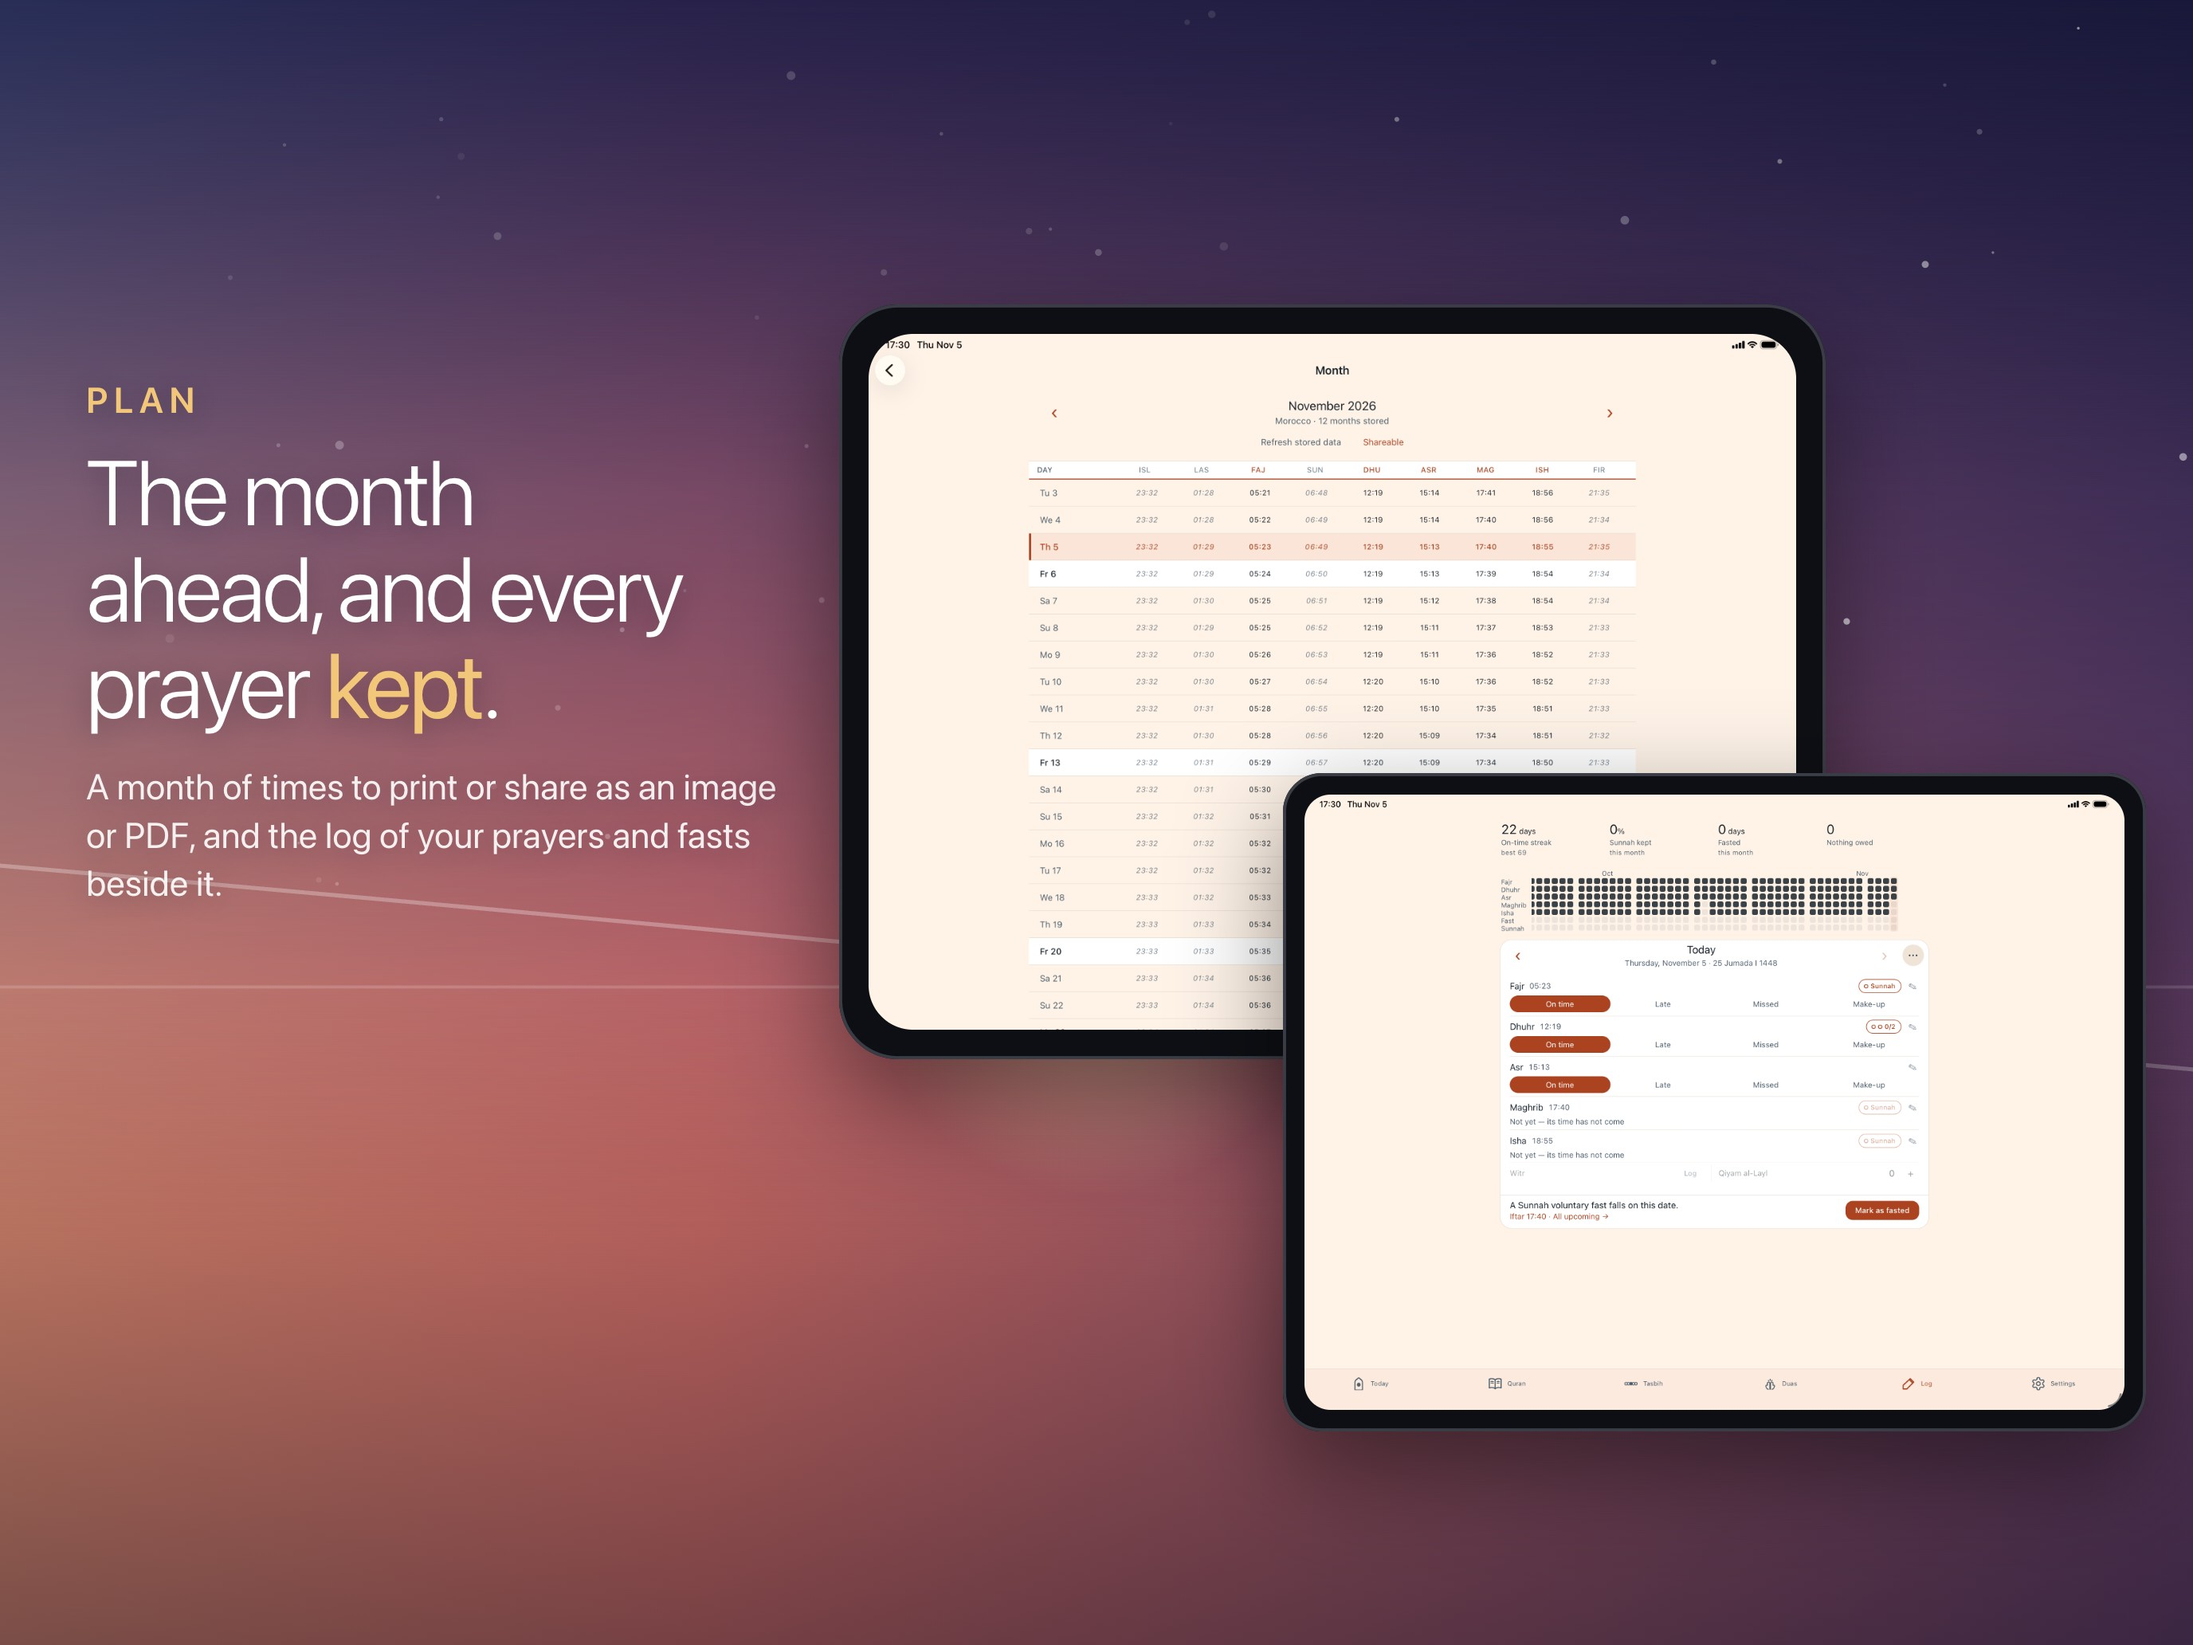
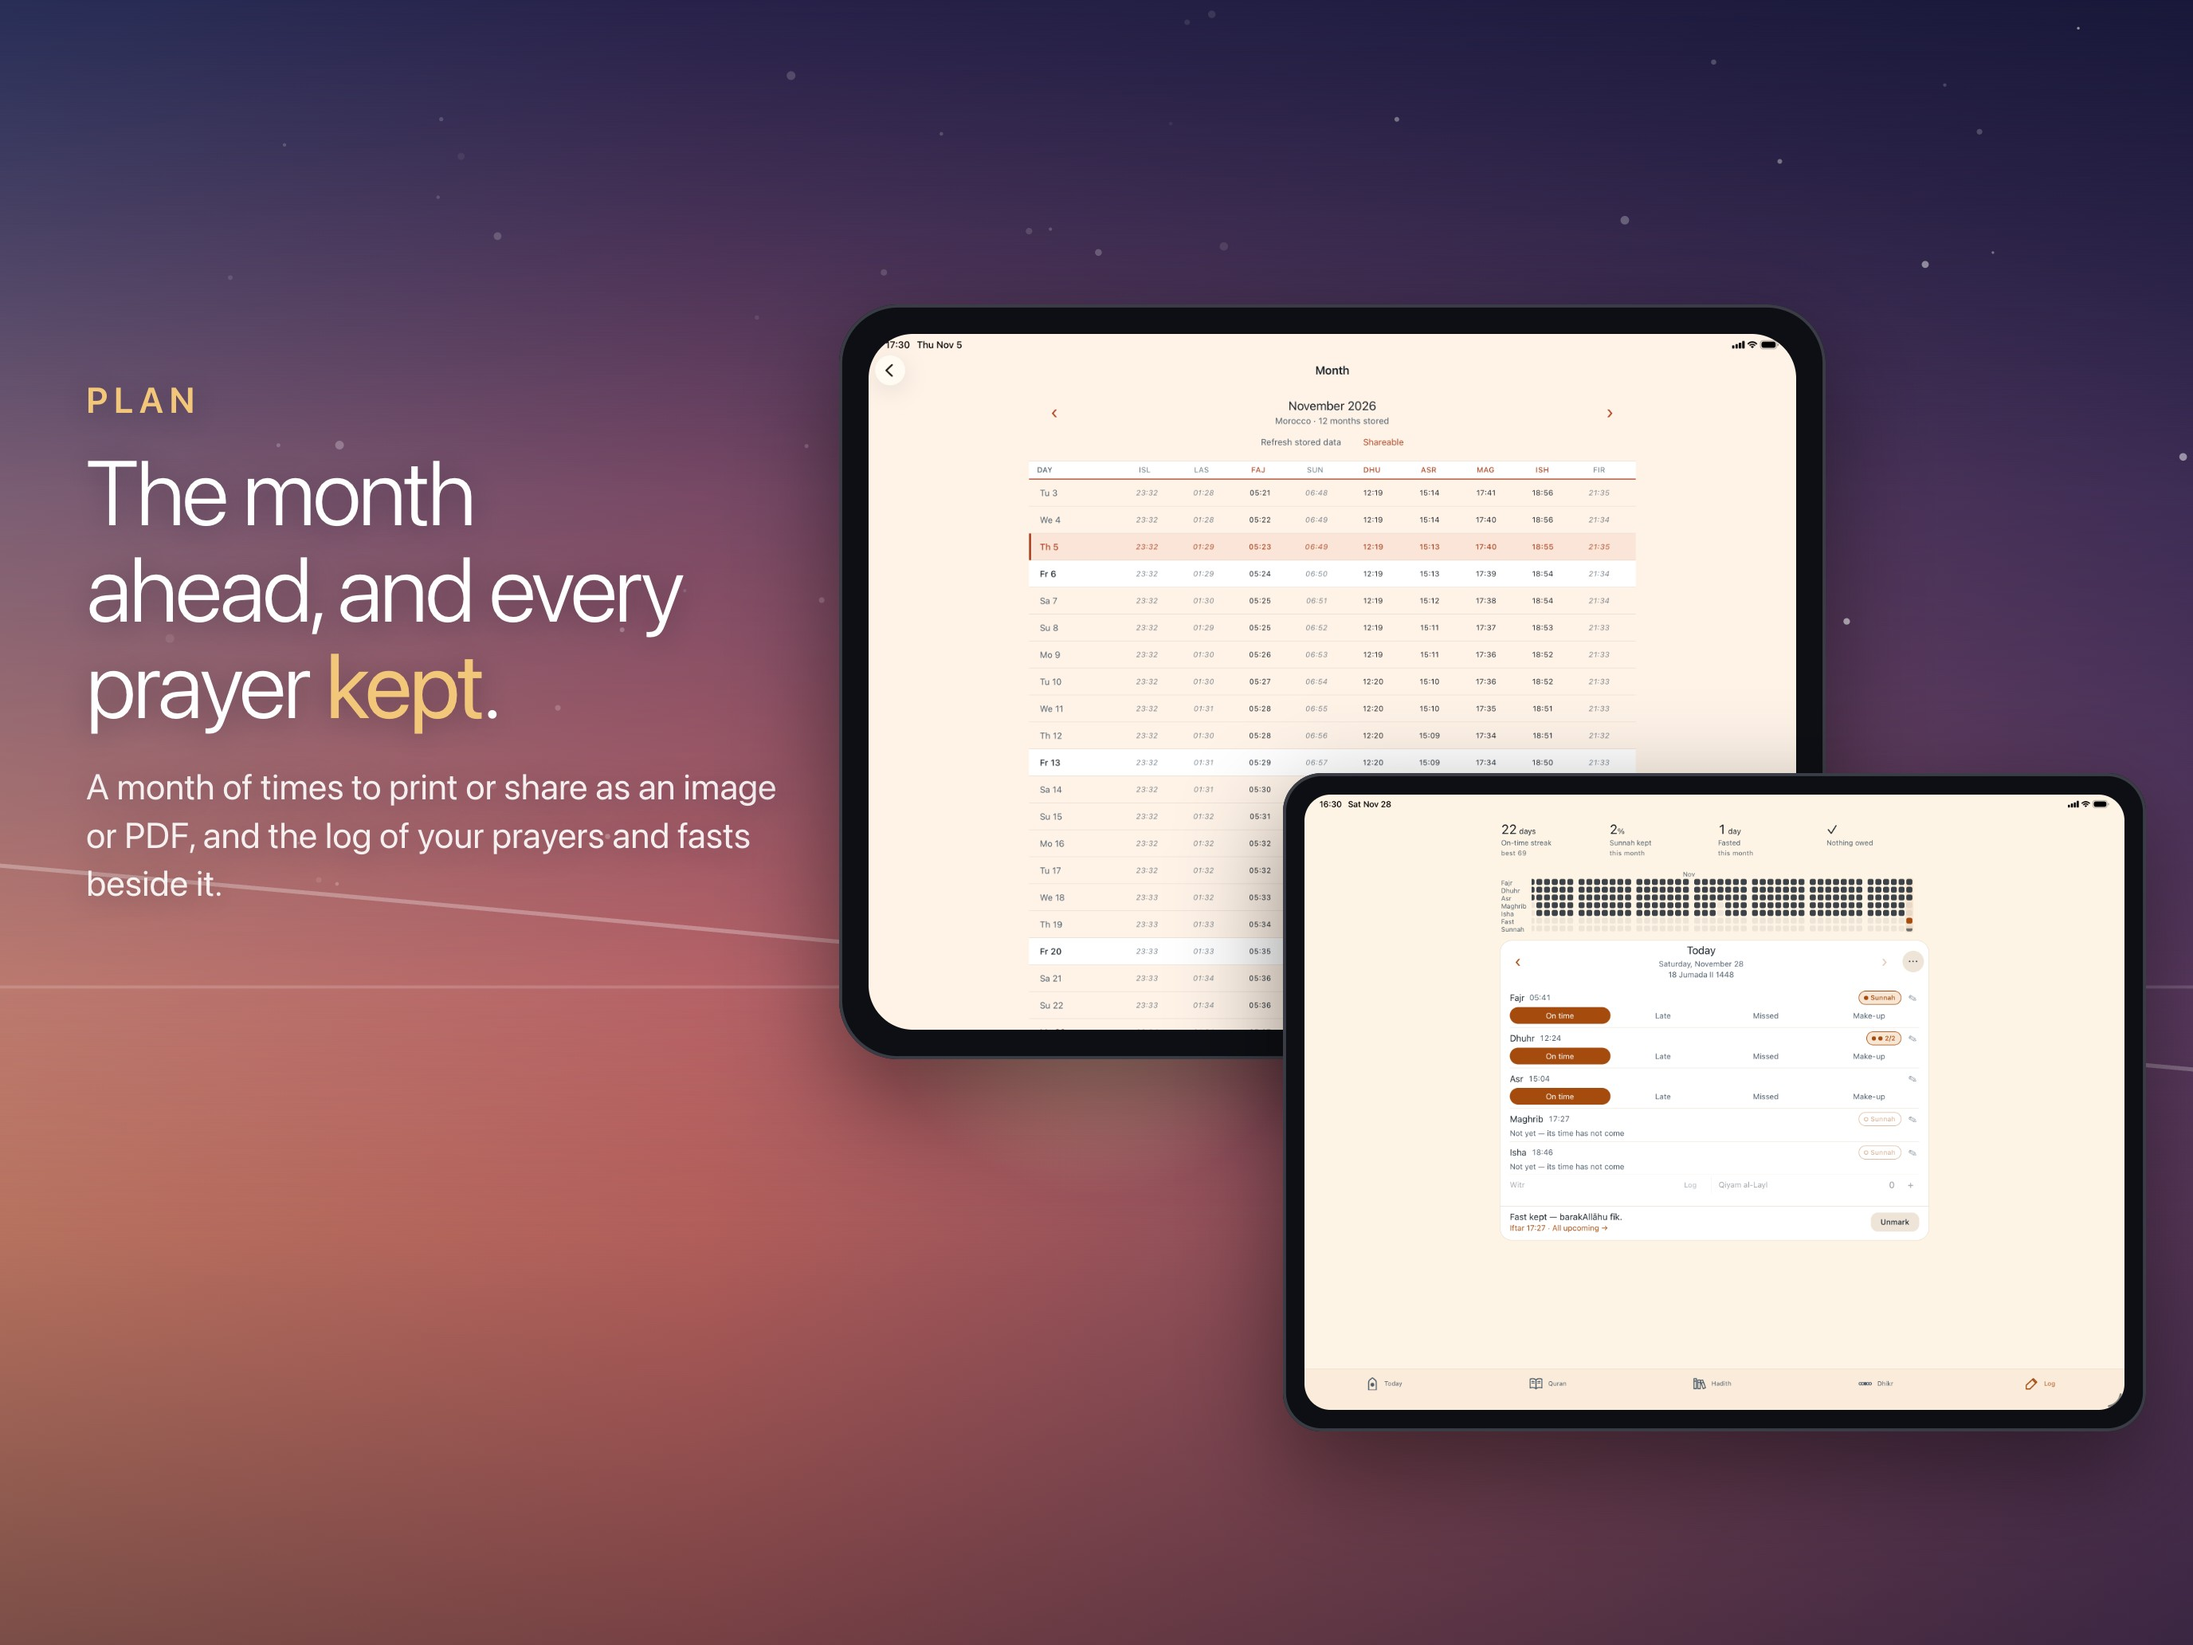
Store images for 2.40: the iPad's Today and Log
Taken on the iPad Pro 13-inch simulator in landscape, turned through
idb_companion's set_orientation (branding/tools/sim_orient.py), which needs
no Simulator window and so works with the Mac locked. The App Store iPad set
is rebuilt in thirteen languages.

Changed region(s): [[0.6875, 0.5891, 0.75, 0.7442], [0.6875, 0.5271, 0.875, 0.5891], [0.8438, 0.5891, 0.875, 0.7442]]

diff --git a/branding/tools/sim_orient.py b/branding/tools/sim_orient.py
@@ -1,0 +1,38 @@
+"""Ask a running idb_companion to turn its simulator: orient.py <port> <0..3>.
+
+The companion (1.7.x) has idb.CompanionService/set_orientation; the Python
+client on this Mac is older and has no command for it, so the request is
+sent raw: field 1, a varint — 0 portrait, 1 upside down, 2 landscape left,
+3 landscape right.
+"""
+import asyncio
+import sys
+
+from grpclib.client import Channel
+from grpclib.const import Cardinality
+
+
+class Raw:
+    def __init__(self, data=b''):
+        self.data = data
+
+    def SerializeToString(self):
+        return self.data
+
+    @classmethod
+    def FromString(cls, data):
+        return cls(data)
+
+
+async def main(port, value):
+    ch = Channel('localhost', port)
+    try:
+        async with ch.request('/idb.CompanionService/set_orientation', Cardinality.UNARY_UNARY, Raw, Raw) as stream:
+            await stream.send_message(Raw(bytes([0x08, value])), end=True)
+            reply = await stream.recv_message()
+            print('ok', reply.data if reply else None)
+    finally:
+        ch.close()
+
+
+asyncio.run(main(int(sys.argv[1]), int(sys.argv[2])))

diff --git a/branding/SCREENSHOT_GUIDE.md b/branding/SCREENSHOT_GUIDE.md
@@ -61,8 +61,15 @@ How each was taken:
   weeks overdue.
 - **Desktop** by `desktop/scripts/steps-store-home.js` through `drive.js`:
   Playwright's clock holds the hour, `TZ=Africa/Abidjan`, 1440×900 at 2×.
-- **iPad:** not retaken — rotating the simulator needs the Mac unlocked
-  (Device → Rotate Left); `ipad/home` and `ipad/log` still show six tabs.
+- **iPad** on the iPad Pro 13″ simulator, the same build and helpers. The
+  simulator is turned without its window (so with the Mac locked) by
+  `python3 branding/tools/sim_orient.py <companion port> 2`: idb_companion
+  1.7 has `set_orientation`, the Python client here does not, so the
+  request is sent raw. With the clock moved by `simtime` a location fix
+  reads as old and Today says "You seem to have travelled": launch once at
+  the real time first, let "My location" find Casablanca, then launch at
+  the scene's time. The status bar's date is the Mac's, so the scene is
+  the day it was shot.
 
 ## Before you shoot
 
